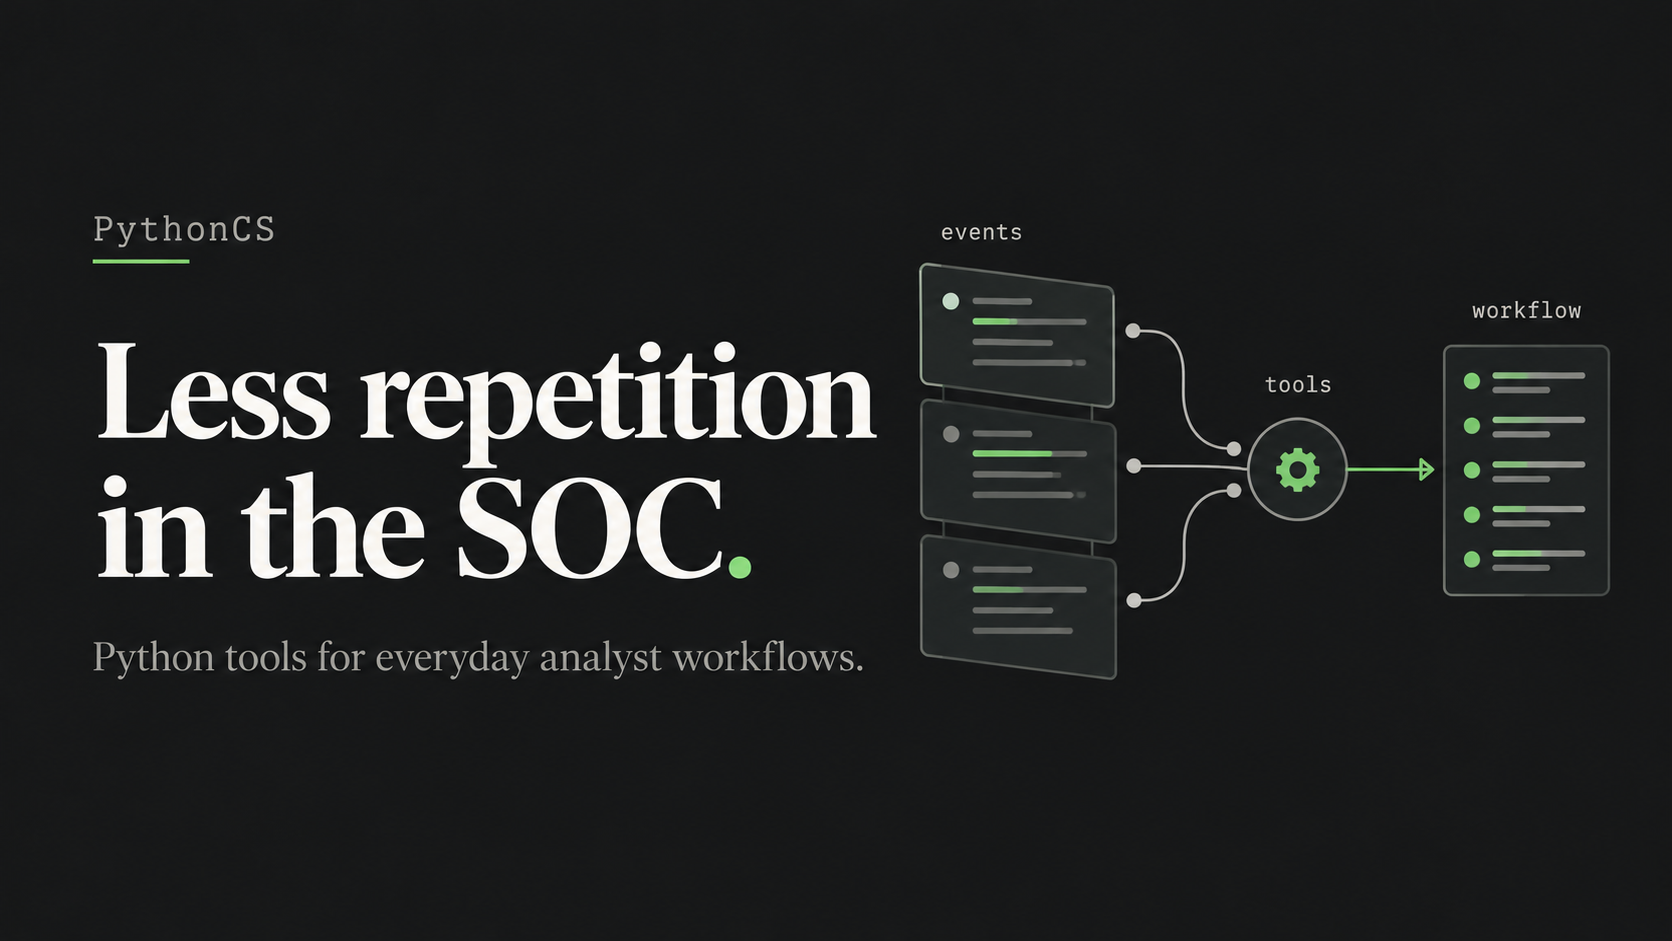
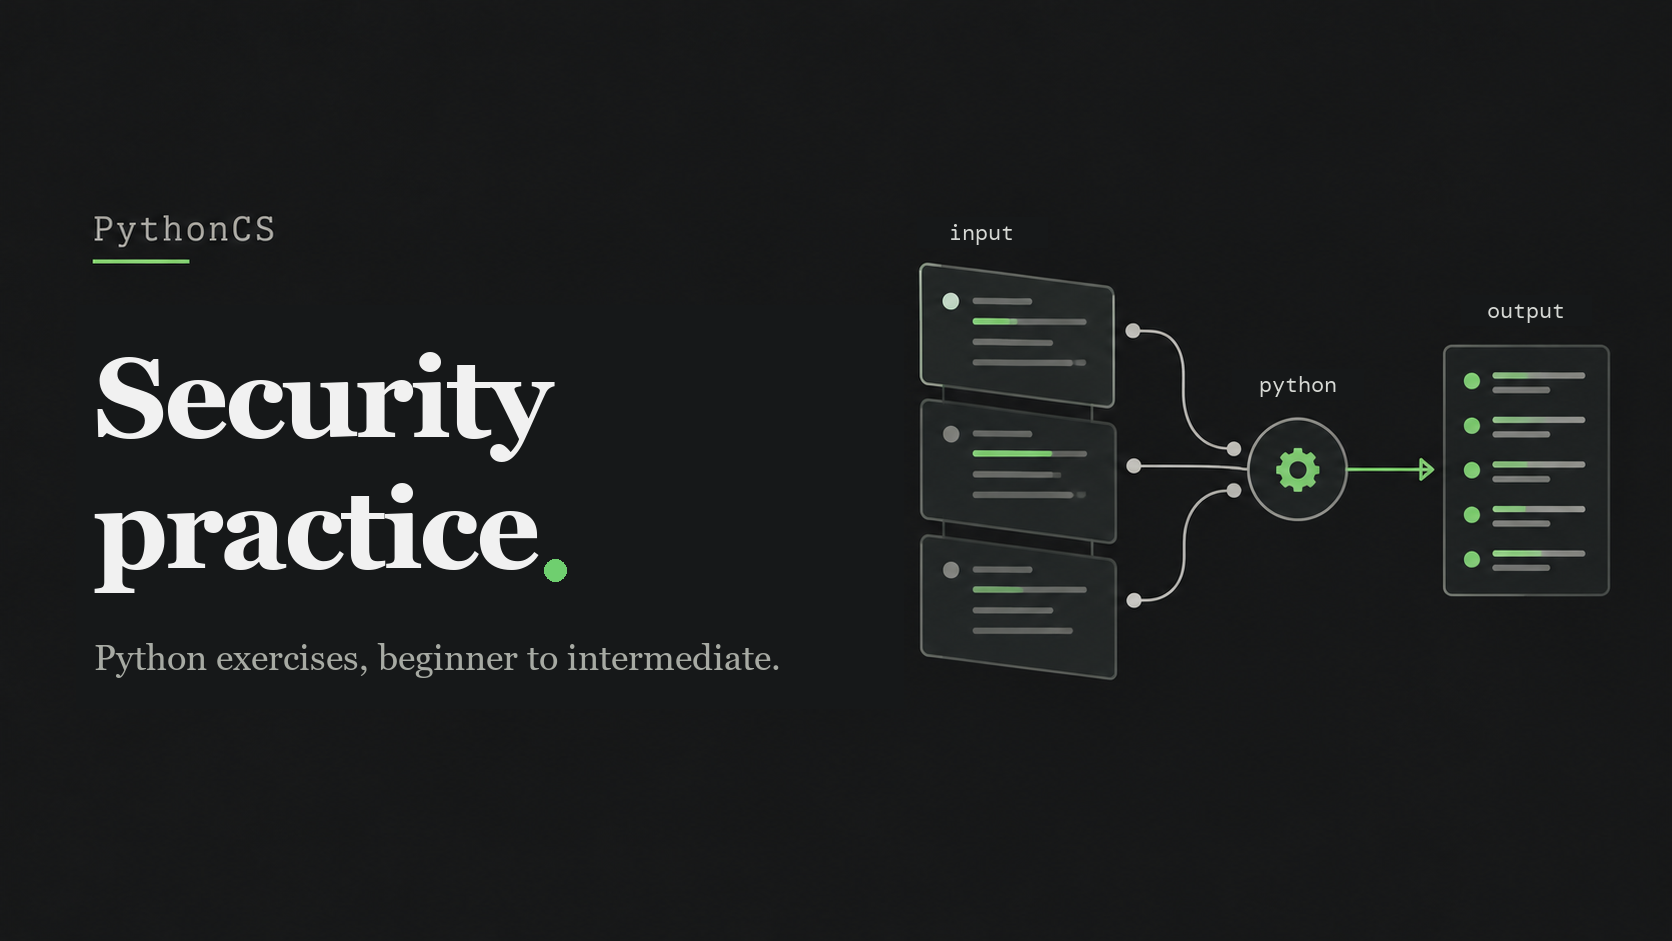
Add Explain to projects; reword PythonCS card and cover as practice exercises

diff --git a/projects/index.html b/projects/index.html
@@ -44,6 +44,7 @@
           <article class="project-card" data-category="systems"><a href="https://logibar.menzo.dev/" data-preview-path="/projects/logibar/"><img src="/assets/projects/logibar.webp" alt="Logibar project image with Logitech battery popup and Windows tray" width="1600" height="760" loading="lazy" decoding="async"><p class="project-meta">Systems</p><h2>Logibar</h2><p>Logitech mouse, headset, and keyboard battery levels in the Windows tray.</p><p class="project-destination">Read project notes <span aria-hidden="true">&nearr;</span></p></a></article>
           <article class="project-card" data-category="automation"><a href="https://babil.menzo.dev/"><img src="/assets/projects/babil-screenshot.webp" alt="Babil showing original and translated live captions over a video" width="1280" height="800" loading="lazy" decoding="async"><p class="project-meta">AI &amp; automation</p><h2>Babil</h2><p>Live translated captions for any browser video, running locally with Whisper.</p><p class="project-destination">Visit website <span aria-hidden="true">&nearr;</span></p></a></article>
           <article class="project-card" data-category="automation"><a href="https://hammurabi.menzo.dev/"><img src="/assets/projects/hammurabi-screenshot.webp" alt="Hammurabi caption overlay at the bottom of a video, showing a Turkish line and its English translation" width="1280" height="800" loading="lazy" decoding="async"><p class="project-meta">AI &amp; automation</p><h2>Hammurabi</h2><p>Free live captions and translation for system audio and your microphone, as a local tray app for Windows, macOS and Linux.</p><p class="project-destination">Visit website <span aria-hidden="true">&nearr;</span></p></a></article>
+          <article class="project-card" data-category="automation"><a href="https://explain.menzo.dev/"><img src="/assets/projects/explain-screenshot.webp" alt="Explain card beside a selected word in an article, explaining it in plain language" width="1280" height="800" loading="lazy" decoding="async"><p class="project-meta">AI &amp; automation</p><h2>Explain</h2><p>Select text, right-click, and get a short, plain explanation from Gemini right beside it. Chrome and Firefox.</p><p class="project-destination">Visit website <span aria-hidden="true">&nearr;</span></p></a></article>
           <article class="project-card" data-category="apps"><a href="https://moviepickr.site"><img src="/assets/projects/moviepickr-homepage-v2.webp" alt="Moviepickr loaded homepage with movie posters, movie-night action, and join code" width="1440" height="810" loading="lazy" decoding="async"><p class="project-meta">Apps</p><h2>Moviepickr</h2><p>A movie night picker. Everyone swipes on their phone; the first shared yes wins.</p><p class="project-destination">Visit website <span aria-hidden="true">&nearr;</span></p></a></article>
           <article class="project-card" data-category="automation"><a href="https://github.com/canmenzo/jobscope"><img src="/assets/projects/thumbnails/jobscope.webp" alt="JobScope: A clearer job search." width="1536" height="864" loading="lazy" decoding="async"><p class="project-meta">AI &amp; automation</p><h2>JobScope</h2><p>USA tech openings from public job APIs, scored against your preferences and resume.</p><p class="project-destination">View on GitHub <span aria-hidden="true">&nearr;</span></p></a></article>
           <article class="project-card" data-category="apps"><a href="https://cheff.fit"><img src="/assets/projects/cheff.webp" alt="Cheff.fit homepage with meal tracking and macro breakdown" width="1166" height="879" loading="lazy" decoding="async"><p class="project-meta">Apps</p><h2>Cheff.fit</h2><p>Meal photos, macro tracking, meal planning, and kitchen inventory.</p><p class="project-destination">Visit website <span aria-hidden="true">&nearr;</span></p></a></article>
@@ -54,7 +55,7 @@
           <article class="project-card" data-category="automation"><a href="https://github.com/canmenzo/jarvis-home-automation"><img src="/assets/projects/thumbnails/jarvis.webp" alt="Jarvis: A voice for your home." width="1536" height="864" loading="lazy" decoding="async"><p class="project-meta">AI &amp; automation</p><h2>Jarvis</h2><p>Home automation with Wake-on-LAN, voice control, and Siri.</p><p class="project-destination">View on GitHub <span aria-hidden="true">&nearr;</span></p></a></article>
           <article class="project-card" data-category="systems"><a href="https://github.com/canmenzo/watchlistrr"><img src="/assets/projects/thumbnails/watchlistrr.webp" alt="Watchlistrr: Watchlist to watch night." width="1536" height="864" loading="lazy" decoding="async"><p class="project-meta">Systems</p><h2>Watchlistrr</h2><p>Sync a Letterboxd watchlist into Seerr. TMDB matching, SQLite caching, and scheduled Docker runs.</p><p class="project-destination">View on GitHub <span aria-hidden="true">&nearr;</span></p></a></article>
           <article class="project-card" data-category="systems"><a href="https://github.com/canmenzo/wsl-disk-bridge"><img src="/assets/projects/thumbnails/wsl-disk-bridge.webp" alt="WSL Disk Bridge: Bridge Windows and Linux." width="1536" height="864" loading="lazy" decoding="async"><p class="project-meta">Systems</p><h2>WSL Disk Bridge</h2><p>WSL2 disk access with a custom Linux kernel for Windows dual-boot setups.</p><p class="project-destination">View on GitHub <span aria-hidden="true">&nearr;</span></p></a></article>
-          <article class="project-card" data-category="security"><a href="https://github.com/canmenzo/pythoncs"><img src="/assets/projects/thumbnails/pythoncs.webp" alt="PythonCS: Less repetition in the SOC." width="1536" height="864" loading="lazy" decoding="async"><p class="project-meta">Security</p><h2>PythonCS</h2><p>Python tools for repetitive SOC analyst workflows.</p><p class="project-destination">View on GitHub <span aria-hidden="true">&nearr;</span></p></a></article>
+          <article class="project-card" data-category="security"><a href="https://github.com/canmenzo/pythoncs"><img src="/assets/projects/thumbnails/pythoncs.webp" alt="PythonCS: Security practice." width="1536" height="864" loading="lazy" decoding="async"><p class="project-meta">Security</p><h2>PythonCS</h2><p>Python security practice exercises, from beginner to intermediate.</p><p class="project-destination">View on GitHub <span aria-hidden="true">&nearr;</span></p></a></article>
           <article class="project-card" data-category="apps"><a href="https://github.com/canmenzo/kanal"><img src="/assets/projects/thumbnails/kanal.webp" alt="Kanal: Your lineup. Any screen." width="1536" height="864" loading="lazy" decoding="async"><p class="project-meta">Apps</p><h2>Kanal</h2><p>Android TV channel streaming with a remotely managed lineup.</p><p class="project-destination">View on GitHub <span aria-hidden="true">&nearr;</span></p></a></article>
           <article class="project-card is-private" data-category="automation"><img src="/assets/projects/thumbnails/project-x.webp" alt="Project X: Automation for local business." width="1536" height="864" loading="lazy" decoding="async"><p class="project-meta">AI &amp; automation</p><h2>Project X</h2><p>Custom assistants and automation for local businesses.</p><section class="project-subproject" aria-labelledby="real-estate-heading"><h3 id="real-estate-heading">Real Estate AI Ops</h3><p>Lead generation, market analysis, and outreach automation for real estate.</p></section><p class="project-destination">Private project</p></article>
           <article class="project-card" data-category="systems"><a href="https://github.com/canmenzo/nasserver"><img src="/assets/projects/thumbnails/nasserver.webp" alt="NAS Server: Your files. Your server." width="1536" height="864" loading="lazy" decoding="async"><p class="project-meta">Systems</p><h2>NAS Server</h2><p>Self-hosted storage with automated backups and remote access.</p><p class="project-destination">View on GitHub <span aria-hidden="true">&nearr;</span></p></a></article>
